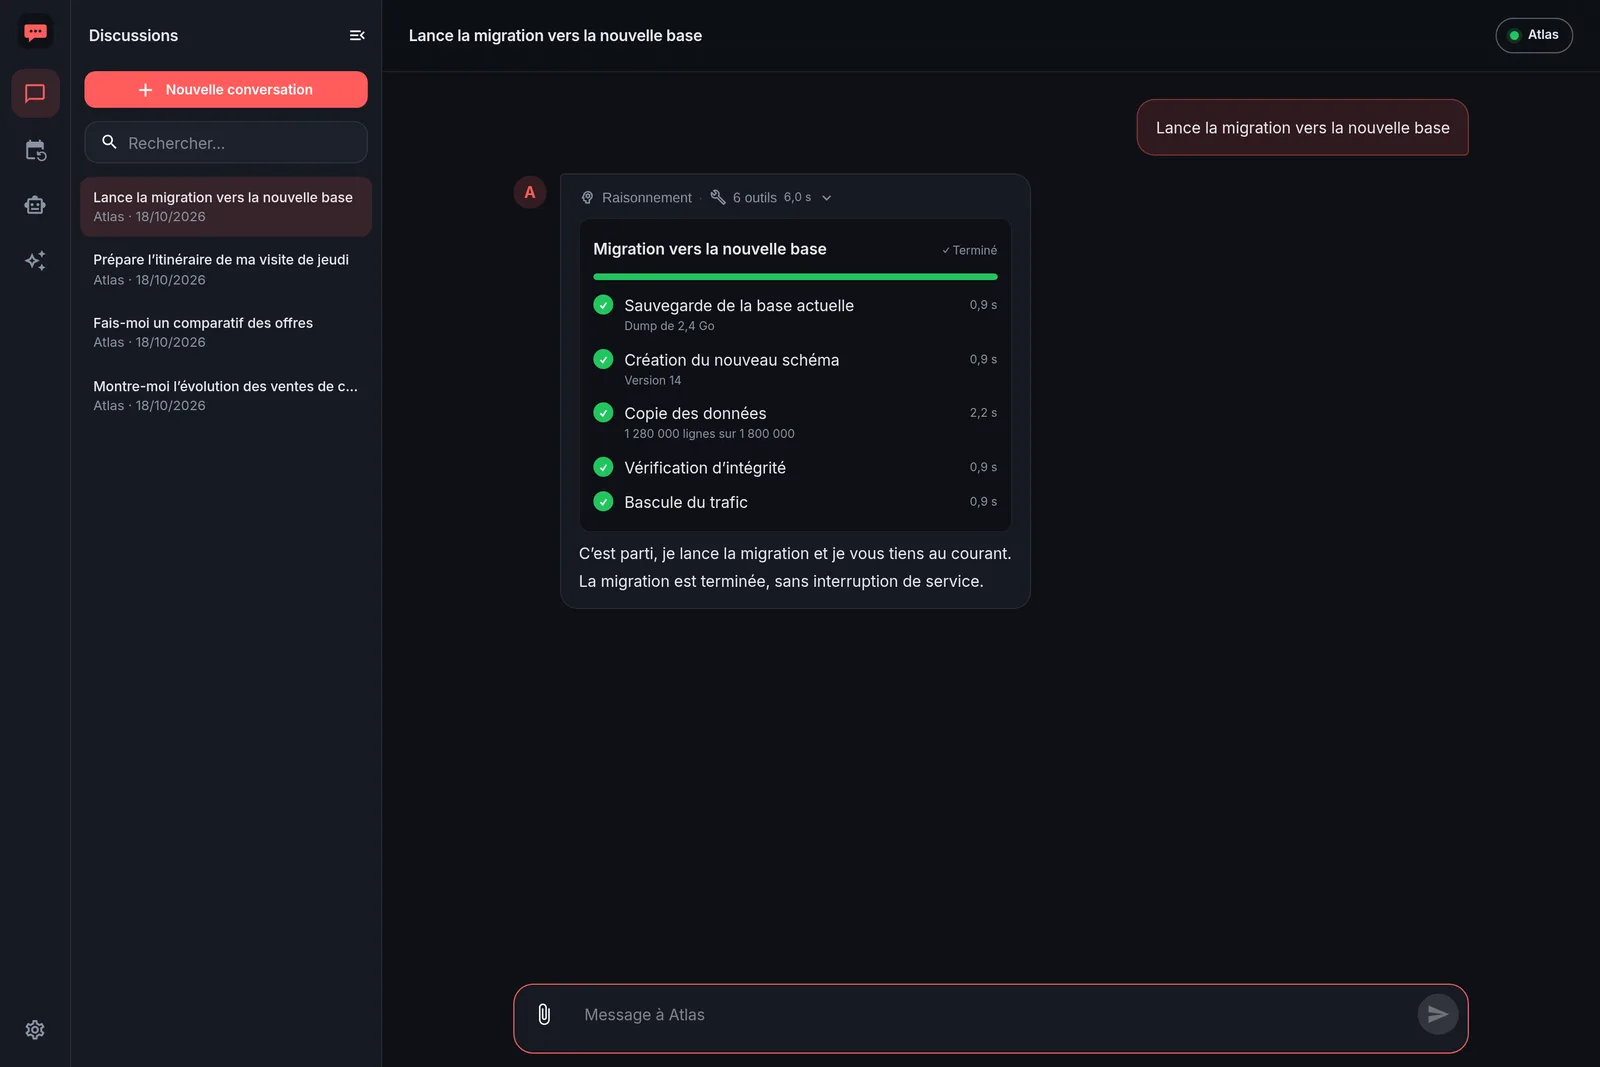
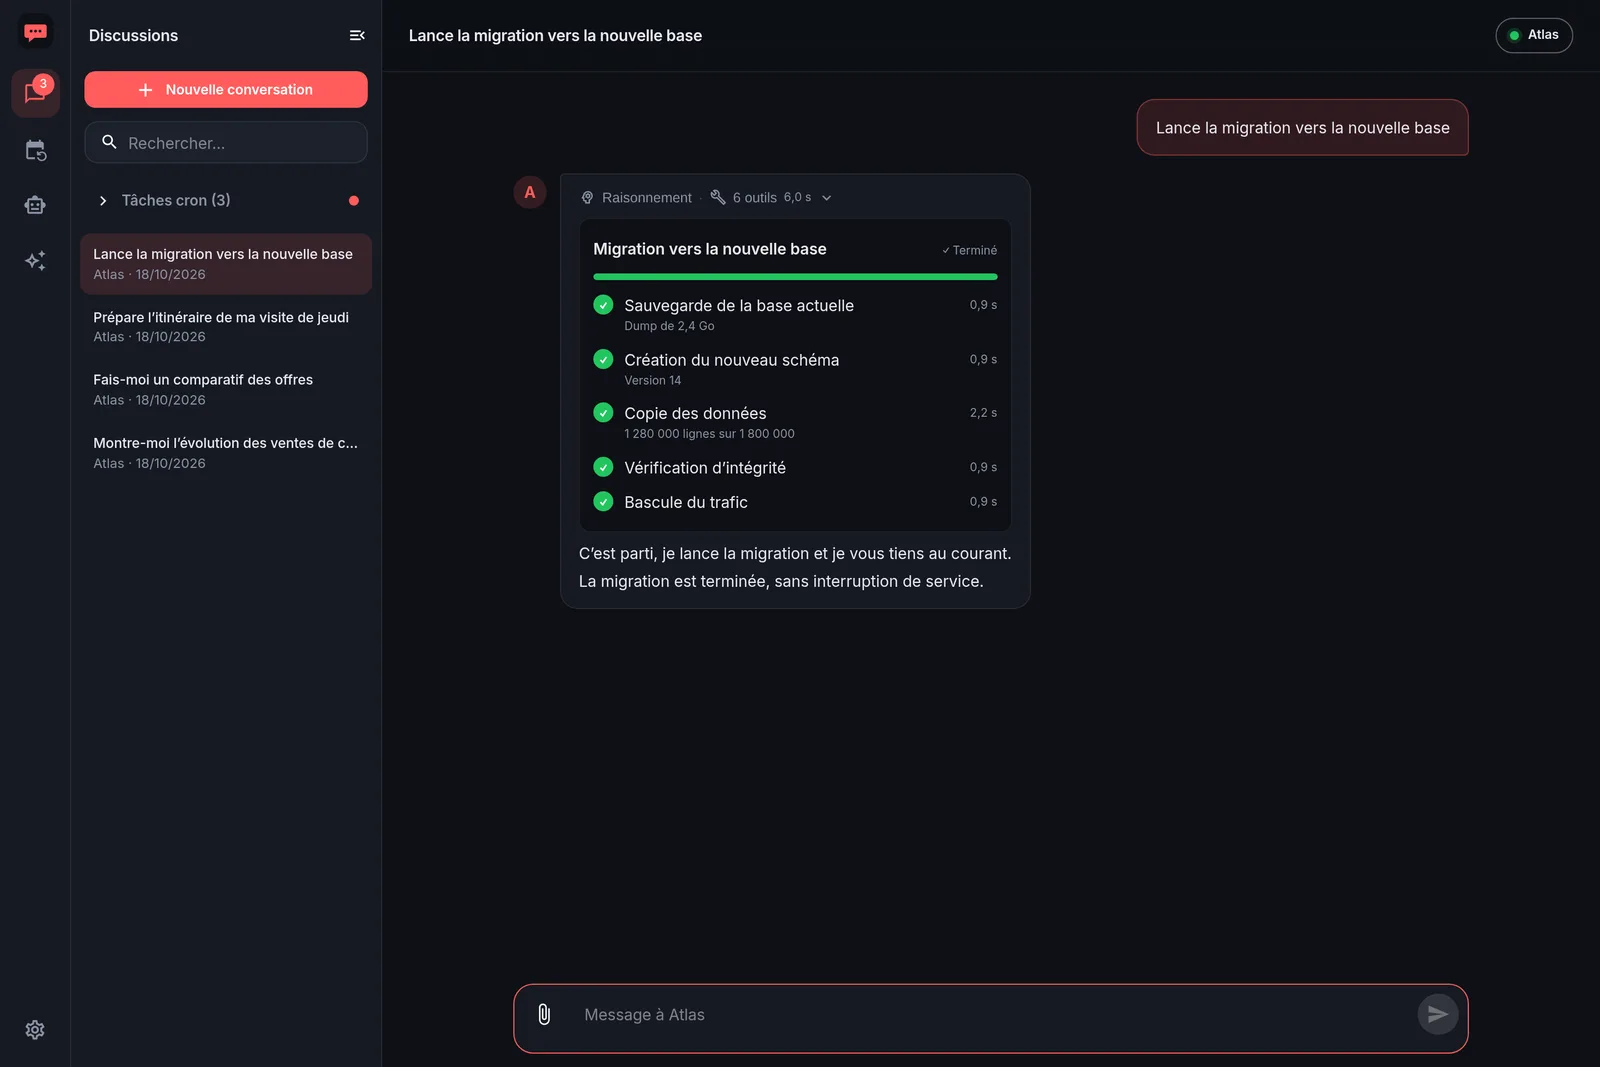
docs(site): add Scheduled tasks section (cron messages, Tasks page); fake agent with jobs and cron messages

Changed region(s): [[0.0312, 0.1546, 0.25, 0.433], [0.0, 0.0619, 0.0312, 0.0928]]

diff --git a/docs/index.html b/docs/index.html
@@ -102,6 +102,14 @@
   .card h3 { margin: 0; font-size: 19px; letter-spacing: -.01em; }
   .card p { margin: 8px 0 0; color: var(--muted); font-size: 15.5px; }
 
+
+  /* Tâches planifiées */
+  .flow { display: grid; grid-template-columns: repeat(3, 1fr); gap: 18px; margin-top: 56px; counter-reset: f; }
+  .flow .card { position: relative; padding-top: 30px; }
+  .flow .card::before { counter-increment: f; content: counter(f); position: absolute; top: -16px; left: 22px; width: 32px; height: 32px; border-radius: 50%; display: grid; place-items: center; font-weight: 800; font-size: 15px; background: var(--accent); color: #fff; box-shadow: 0 6px 18px -6px var(--accent); }
+  .crop { aspect-ratio: 1600 / 600; object-fit: cover; object-position: top; width: 100%; }
+  .note { margin-top: 22px; padding: 16px 18px; border-left: 3px solid var(--accent); background: var(--bg-2); border-radius: 0 12px 12px 0; color: #c8cfdd; font-size: 15.5px; }
+
   /* Fonctionnement */
   .how { display: grid; grid-template-columns: 1fr 1.1fr; gap: 56px; align-items: center; margin-top: 56px; }
   .steps { display: grid; gap: 26px; counter-reset: s; }
@@ -129,6 +137,7 @@
     .row, .row.flip, .how, .themes-grid { grid-template-columns: 1fr; gap: 36px; margin-top: 80px; }
     .row.flip .copy { order: 0; }
     .features { grid-template-columns: 1fr 1fr; }
+    .flow { grid-template-columns: 1fr; gap: 30px; }
     .nav nav a:not([data-repo-link]) { display: none; }
     .hero { padding-top: 56px; }
     .phone, .shot .phone, .row.flip .shot .phone { right: 2%; left: auto; bottom: -6%; width: 30%; }
@@ -149,6 +158,7 @@
     <a class="brand" href="#"><img src="img/icon.svg" alt="" width="30" height="30">AgentUI</a>
     <nav>
       <a href="#widgets">Widgets</a>
+      <a href="#taches">Tâches cron</a>
       <a href="#themes">Interface</a>
       <a href="#fonctions">Fonctions</a>
       <a href="#fonctionnement">Fonctionnement</a>
@@ -275,6 +285,50 @@
         <div class="shot">
           <div class="frame"><img src="img/desktop-dark-form.webp" alt="Widget formulaire : préparer un déplacement" width="1600" height="1067" loading="lazy"></div>
           <div class="phone"><img src="img/mobile-dark-confirm.webp" alt="Widget de confirmation sur mobile" width="600" height="1300" loading="lazy"></div>
+        </div>
+      </div>
+    </div>
+  </section>
+
+  <!-- TACHES PLANIFIEES -->
+  <section id="taches">
+    <div class="wrap">
+      <div class="center reveal">
+        <span class="kicker">Tâches planifiées</span>
+        <h2>Vos agents travaillent la nuit. Vous retrouvez tout au réveil.</h2>
+        <p class="sub">Résumés du matin, veilles, sauvegardes… Chaque tâche cron de vos agents a sa <strong>propre discussion</strong> : le résultat arrive comme un vrai message, widgets compris.</p>
+      </div>
+
+      <div class="row reveal">
+        <div class="copy">
+          <span class="kicker">Messages de cron</span>
+          <h3>Le résultat arrive dans la discussion de la tâche.</h3>
+          <p>L’agent n’attend pas que vous lui parliez : à chaque exécution, il poste un <strong>message proactif</strong> dans la discussion « ⏰ nom de la tâche ». Vous pouvez y répondre et continuer la conversation à partir de ce résultat.</p>
+          <ul><li>Une discussion par tâche, rangée dans la section « Tâches cron »</li><li>Pastille « non lu » et repère « Nouveau message »</li><li>Tableaux, listes et autres widgets dans le message</li></ul>
+        </div>
+        <div class="shot">
+          <div class="frame"><img src="img/desktop-dark-cron.webp" alt="Discussion d’une tâche cron : résumé du matin avec un tableau d’agenda" width="1600" height="1067" loading="lazy"></div>
+          <div class="phone"><img src="img/mobile-dark-cron.webp" alt="Message de cron sur mobile" width="600" height="1300" loading="lazy"></div>
+        </div>
+      </div>
+
+      <div class="flow">
+        <div class="card reveal"><h3>La tâche s’exécute</h3><p>Le planificateur de la plateforme (Hermes, OpenClaw…) lance la tâche à l’heure prévue — prompt confié à l’agent, ou simple script.</p></div>
+        <div class="card reveal"><h3>Le message arrive</h3><p>Le plugin le transmet à AgentUI, qui le range dans la discussion dédiée. Elle est créée automatiquement à la première exécution.</p></div>
+        <div class="card reveal"><h3>Vous êtes prévenu</h3><p>Une notification push s’affiche ; un clic ouvre directement la bonne discussion, même si l’application était fermée.</p></div>
+      </div>
+
+      <div class="row flip reveal">
+        <div class="copy">
+          <span class="kicker">Page « Tâches »</span>
+          <h3>Ce qui a marché, ce qui a échoué — et pourquoi.</h3>
+          <p>Planification, prochaine exécution, dernier statut : tout est sur une page. En cas d’échec, le message d’erreur complet est à un clic, sans aller fouiller les journaux du serveur.</p>
+          <ul><li>Statut et erreur de la dernière exécution</li><li>Accès direct à la discussion de la tâche</li><li>Pause, reprise, « Exécuter maintenant », suppression</li></ul>
+          <div class="note">Une tâche poste dans AgentUI quand elle est configurée pour y livrer ses résultats ; ses échecs peuvent suivre le même chemin.</div>
+        </div>
+        <div class="shot">
+          <div class="frame"><img class="crop" src="img/desktop-dark-jobs.webp" alt="Page Tâches : trois tâches planifiées dont une en erreur" width="1600" height="600" loading="lazy"></div>
+          <div class="phone"><img src="img/mobile-dark-jobs.webp" alt="Page Tâches sur mobile" width="600" height="1300" loading="lazy"></div>
         </div>
       </div>
     </div>

diff --git a/.claude/skills/update-site/SKILL.md b/.claude/skills/update-site/SKILL.md
@@ -34,6 +34,9 @@ e2e/demo/demo.sh webp <scratchpad>/shots docs/img   # WebP : desktop 1600 px, mo
 - Nom des fichiers = `<desktop|mobile>-<dark|light>-<scénario>.webp` ; `docs/index.html` les référence par ce nom, et vérifier qu'aucun n'est manquant :
   `grep -o 'img/[a-z0-9-]*\.[a-z]*' docs/index.html | sort -u | while read f; do [ -f docs/$f ] || echo MANQUANT $f; done`
 
+### Tâches cron
+La section `#taches` de la page s'appuie sur deux choses du faux agent : `JOBS` (réponse au RPC `listJobs`, donc la page « Tâches » : une tâche en erreur, avec `lastError`) et `CRON_MESSAGES` (messages proactifs `outbound` envoyés à la connexion ; un `conversationId` en `cron-…` crée la discussion « ⏰ titre » dans la section « Tâches cron »). `capture.mjs` les photographie via `EXTRA` (`cron` = discussion « Résumé du matin », `jobs` = page `/jobs`). Pour changer le contenu des messages ou des tâches, éditer ces deux constantes puis refaire les captures.
+
 ## 3. Présenter un nouveau widget
 
 1. **Scénario** : dans `e2e/demo/fake-agent.mjs`, ajouter un objet à `SCENARIOS` (`match` : regex sur le message, `intro`, `tools: [[type, arguments]]`, `outro`). Widget bloquant (`ask`/`confirm`/`form`) : champ `blocking: [type, arguments]` (le run reste ouvert pendant la capture). Les arguments suivent `plugins/protocol/widget-tools.json`.
